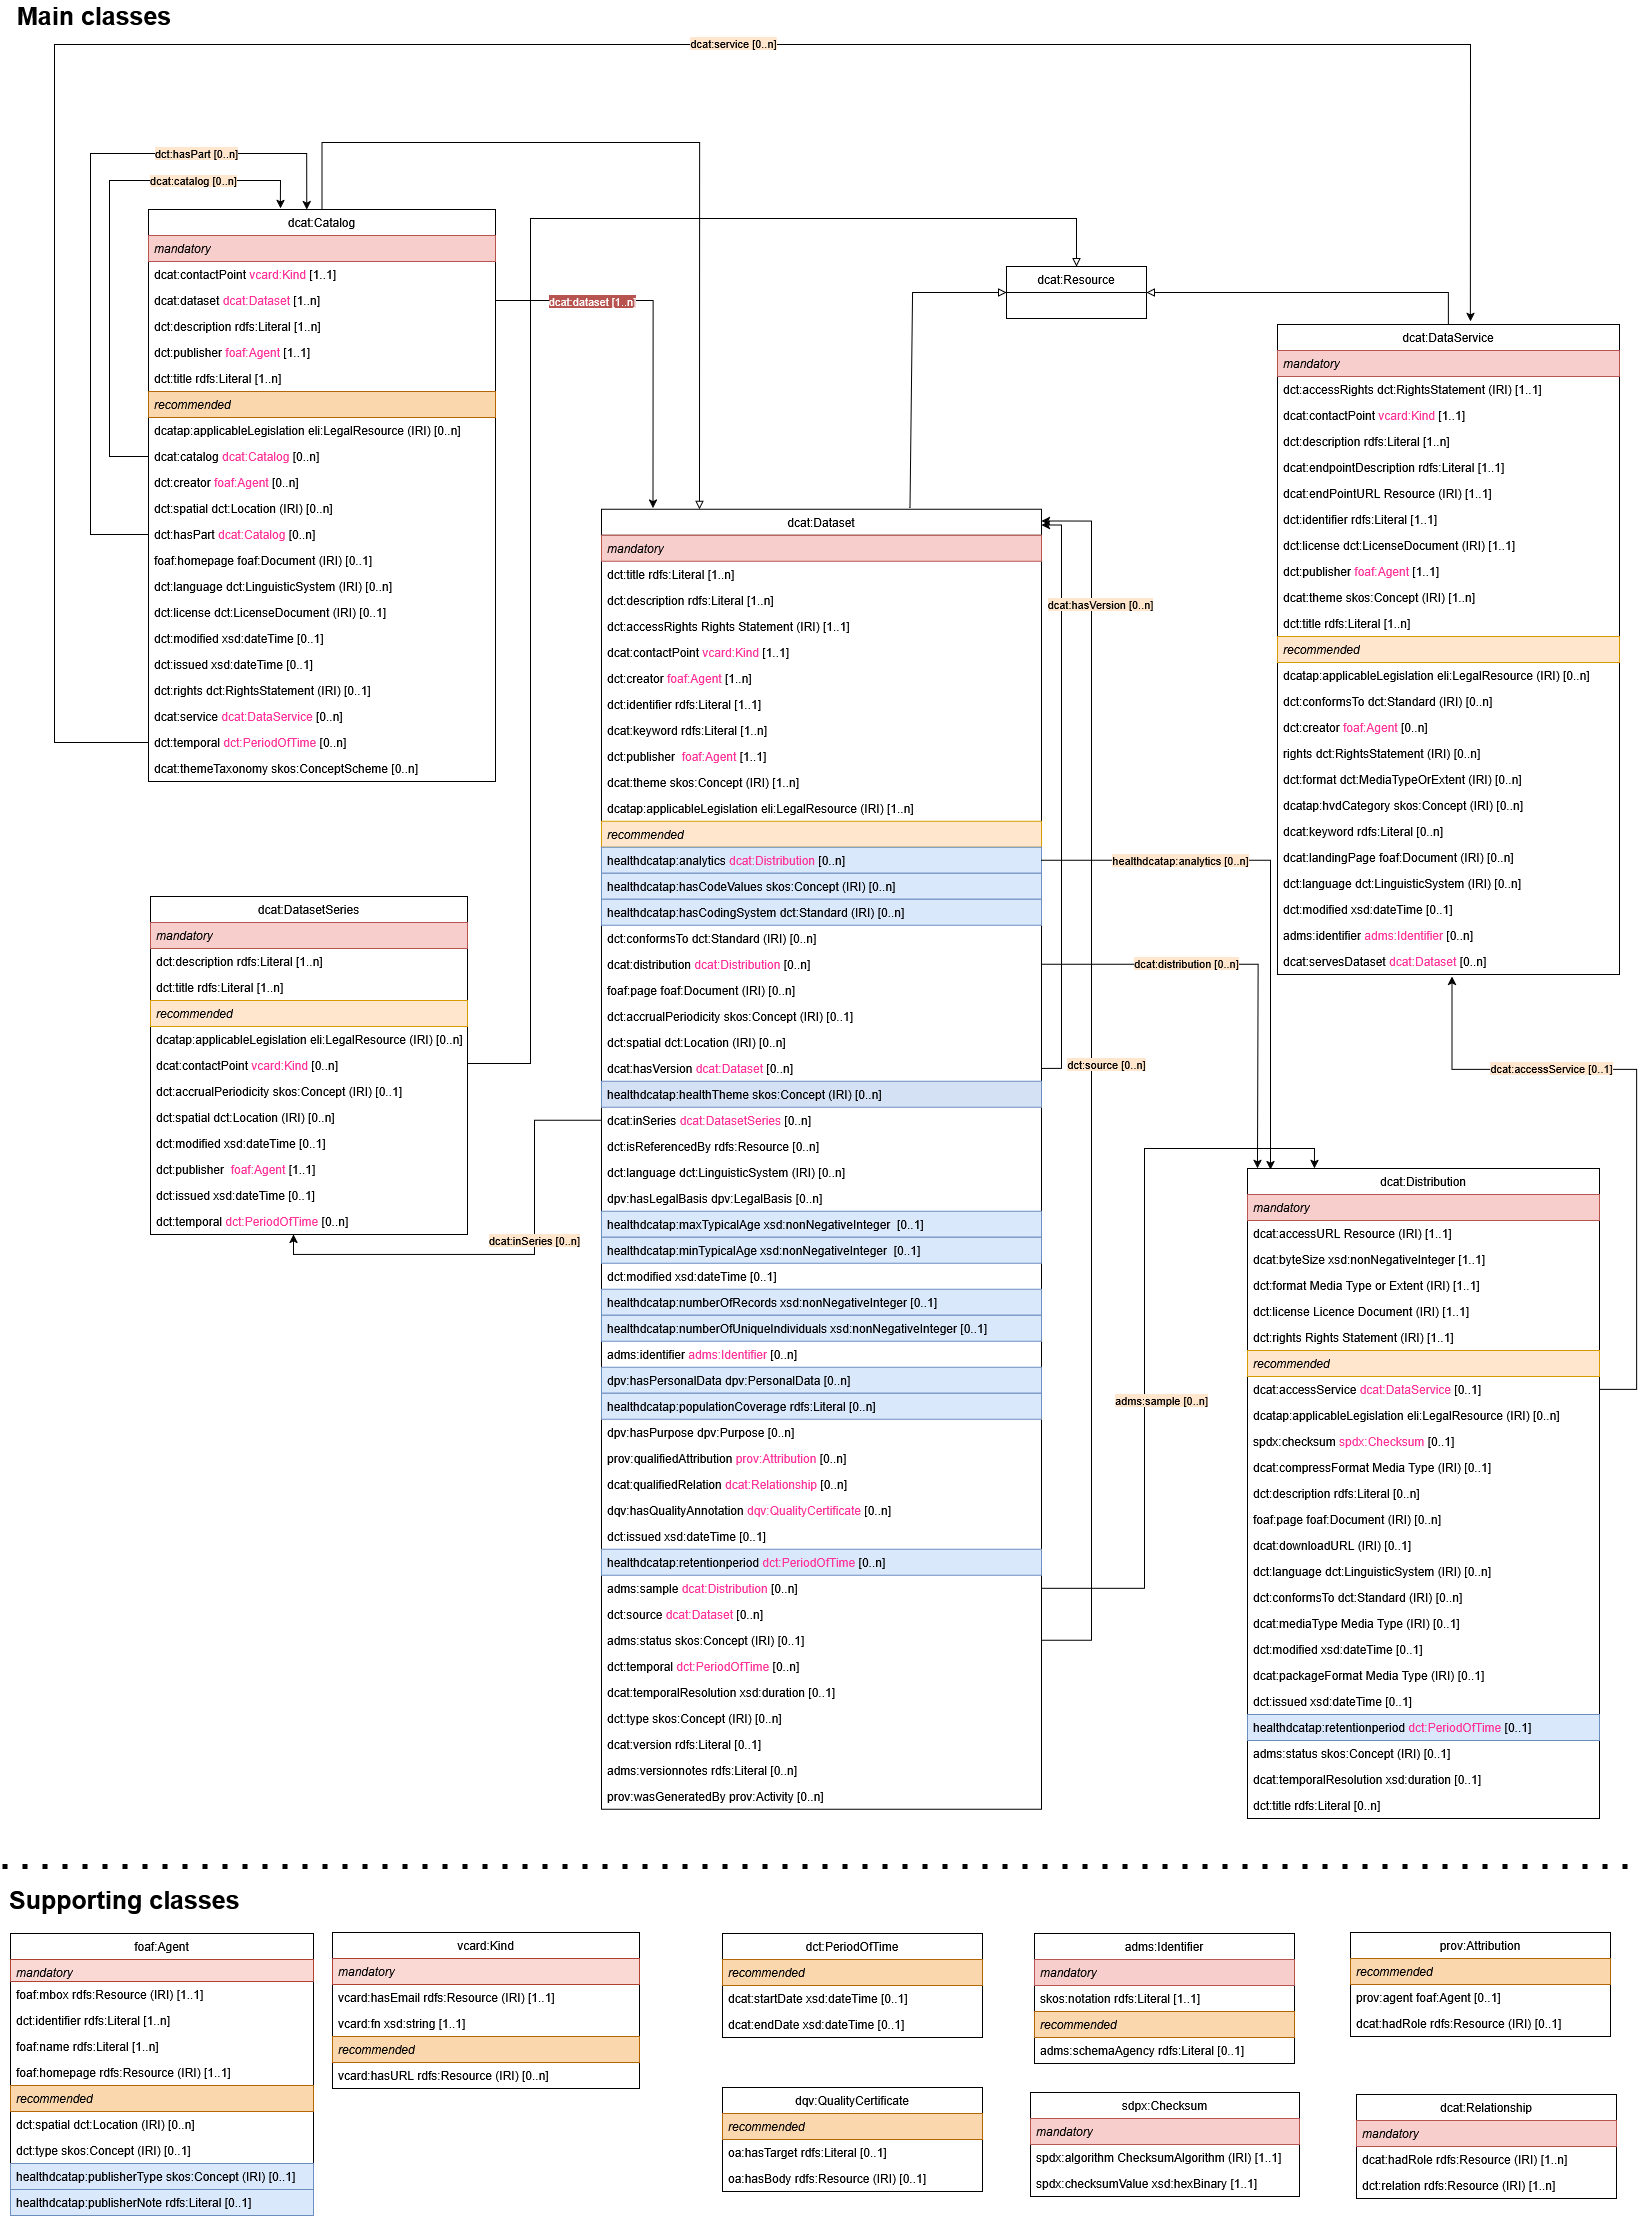
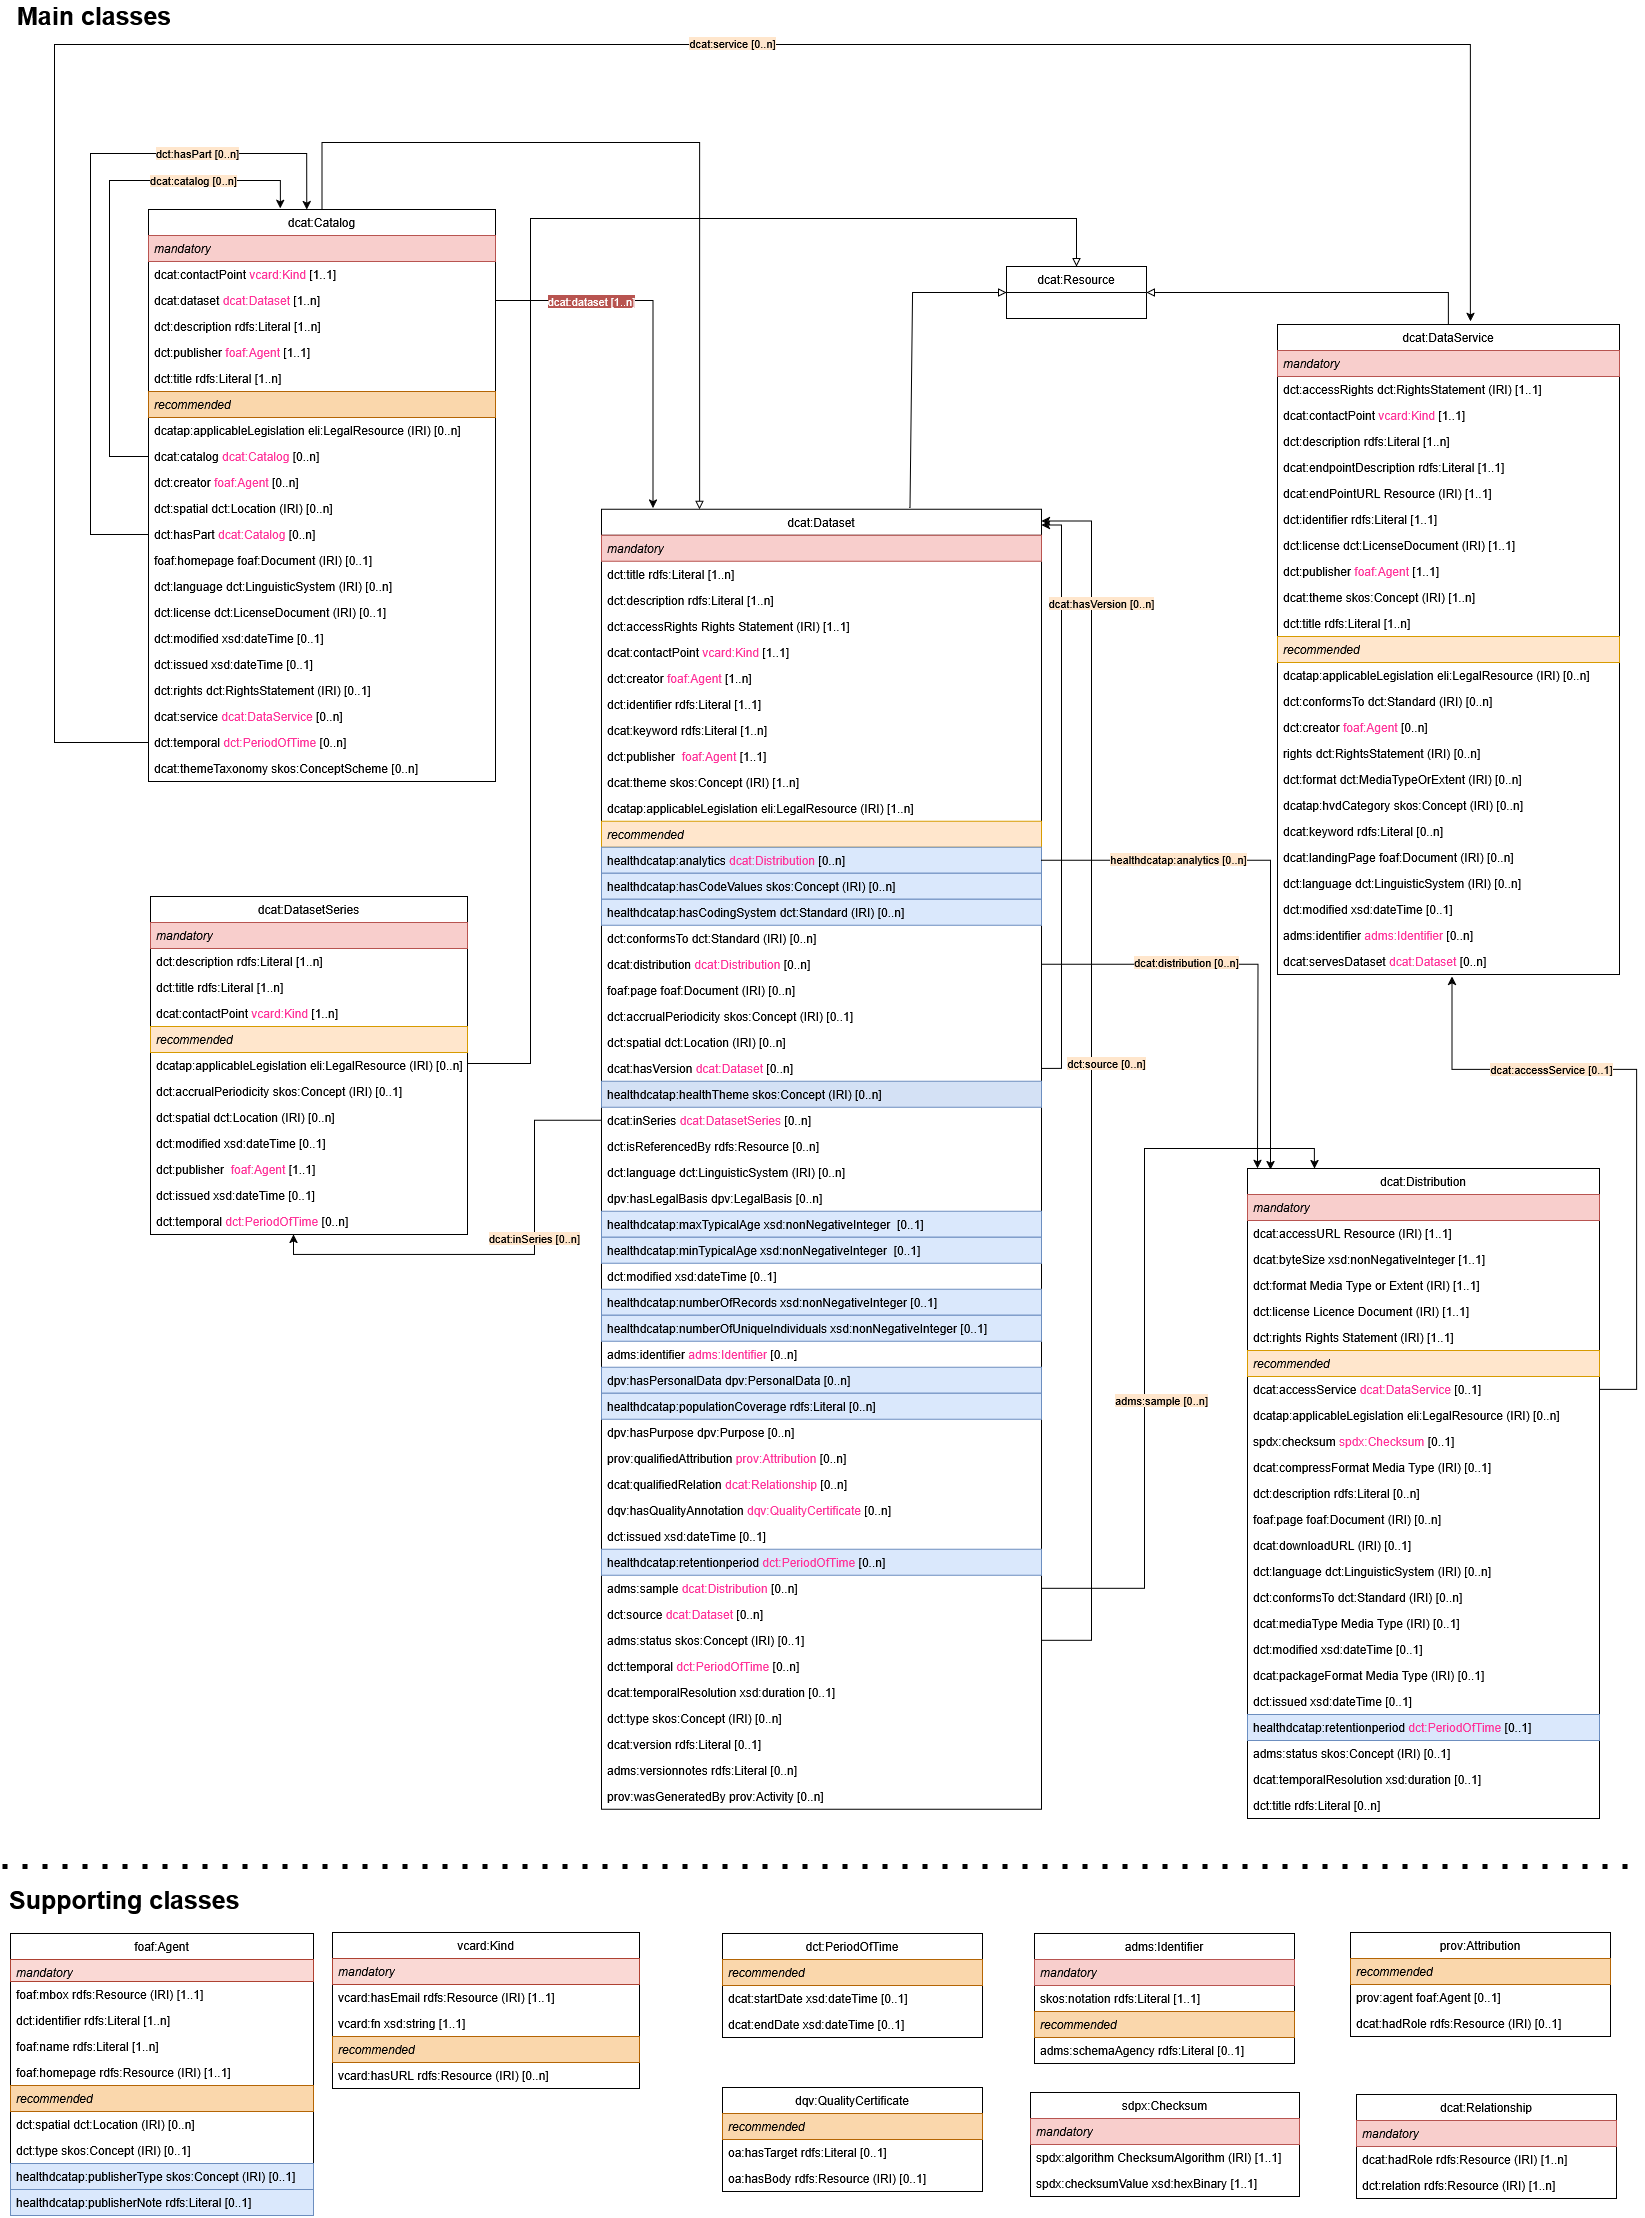
fix: cardinality contactPoint in DatasetSeries
Compliant to HealthDCAT-AP

diff --git a/README.md b/README.md
@@ -325,6 +325,7 @@ A collection of datasets that are published separately, but share some character
 <!-- TODO: This table misses an example column. -->
 | **Property name** | **Definition** | **URI** | **Controlled Vocabulary** | **rdfs:Range** | **Usage Note** | **Cardinality** |
 | --- | --- | --- | --- | --- | --- | --- |
+| [contact point](https://www.w3.org/TR/vocab-dcat-3/#Property:resource_contact_point) | Relevant contact information for the cataloged resource. | `dcat:contactPoint` | NA | `vcard:Kind` | This property points to a contact point (department or person) that can answer questions about the dataset series. Details on how to describe these are provided under class `vcard:Kind`. <br> Whenever possible, use **general contact information** (for example from a department) instead of contact information of an individual. | 1..\* |
 | [description](http://purl.org/dc/terms/description) | An account of the resource. | `dct:description` | NA | `rdfs:Literal` | Provide a brief description of the dataset series in the catalog. You can repeat this in multiple languages. | 1..\* |
 | [title](http://purl.org/dc/terms/title) | A name given to the resource. | `dct:title` | NA |  `rdfs:Literal` | Provide a unique title for your Dataset Series. It can be provided in multiple languages. | 1..\* |
 
@@ -334,7 +335,6 @@ A collection of datasets that are published separately, but share some character
 | **Property name** | **Definition** | **URI** | **Controlled Vocabulary** | **rdfs:Range** | **Usage Note** | **Cardinality** |
 | --- | --- | --- | --- | --- | --- | --- |
 | [applicable legislation](http://data.europa.eu/r5r/applicableLegislation) | The legislation that is applicable to this resource. | `dcatap:applicableLegislation` | NA | `eli:LegalResource` | The legislation that mandates the creation or management of the Dataset Series. | 0..\* |
-| [contact point](https://www.w3.org/TR/vocab-dcat-3/#Property:resource_contact_point) | Relevant contact information for the cataloged resource. | `dcat:contactPoint` | NA | `vcard:Kind` | This property points to a contact point (department or person) that can answer questions about the dataset series. Details on how to describe these are provided under class `vcard:Kind`. <br> Whenever possible, use **general contact information** (for example from a department) instead of contact information of an individual. | 0..\* |
 | [frequency](http://purl.org/dc/terms/accrualPeriodicity) | The frequency with which items are added to a collection. | `dct:accrualPeriodicity` | [EU Vocabularies Frequency Authority List](http://publications.europa.eu/resource/authority/frequency) | `skos:Concept` | The frequency of a dataset series is not equal to the frequency of the dataset in the collection. | 0..1 |
 | [geographical coverage](http://purl.org/dc/terms/spatial) | Spatial characteristics of the resource. | `dct:spatial` | EU Vocabularies Lists: <br> [Continents](http://publications.europa.eu/resource/authority/continent/) <br> [Countries](http://publications.europa.eu/resource/authority/country) <br> [Places](http://publications.europa.eu/resource/authority/place/) <br> OR <br>[Geonames](http://sws.geonames.org/) OR <br>[CBS Classificaties en begrippen](https://vocabs.cbs.nl/nl/) | `dct:Location` | The EU Vocabularies Name Authority Lists must be used for [continents](https://publications.europa.eu/resource/authority/continent/), [countries](https://publications.europa.eu/resource/authority/country), and [places](https://publications.europa.eu/resource/authority/place/) that are in those lists. If a particular location is not in one of the mentioned Named Authority Lists, [Geonames URIs](https://sws.geonames.org/) must be used. For districts or neighbourhoods in NL, the [Dutch vocab](https://vocabs.cbs.nl/nl/) can be used. However, it might in many cases be desirable to keep the geographical coverage broader (e.g., indicating that NL is covered) to avoid exposing detailed information about the subjects' locations. | 0..\* |
 | [modification date](http://purl.org/dc/terms/modified) | Date on which the resource was changed. | `dct:modified` | NA | `xsd:dateTime` | This does not correspond to the most recently modified dataset in the collection of the dataset series. | 0..1 |
